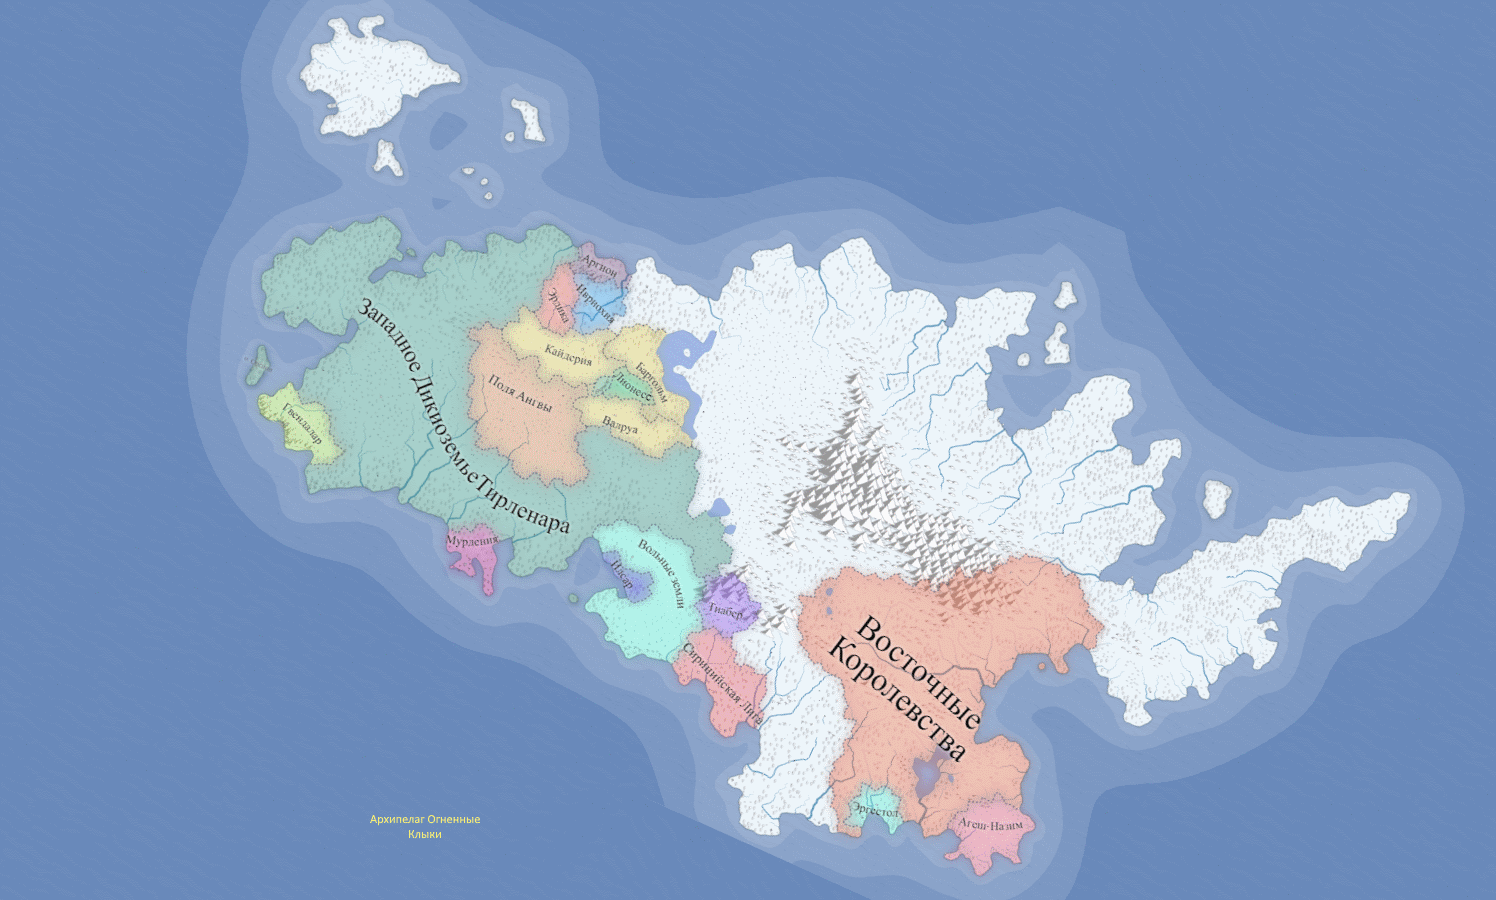
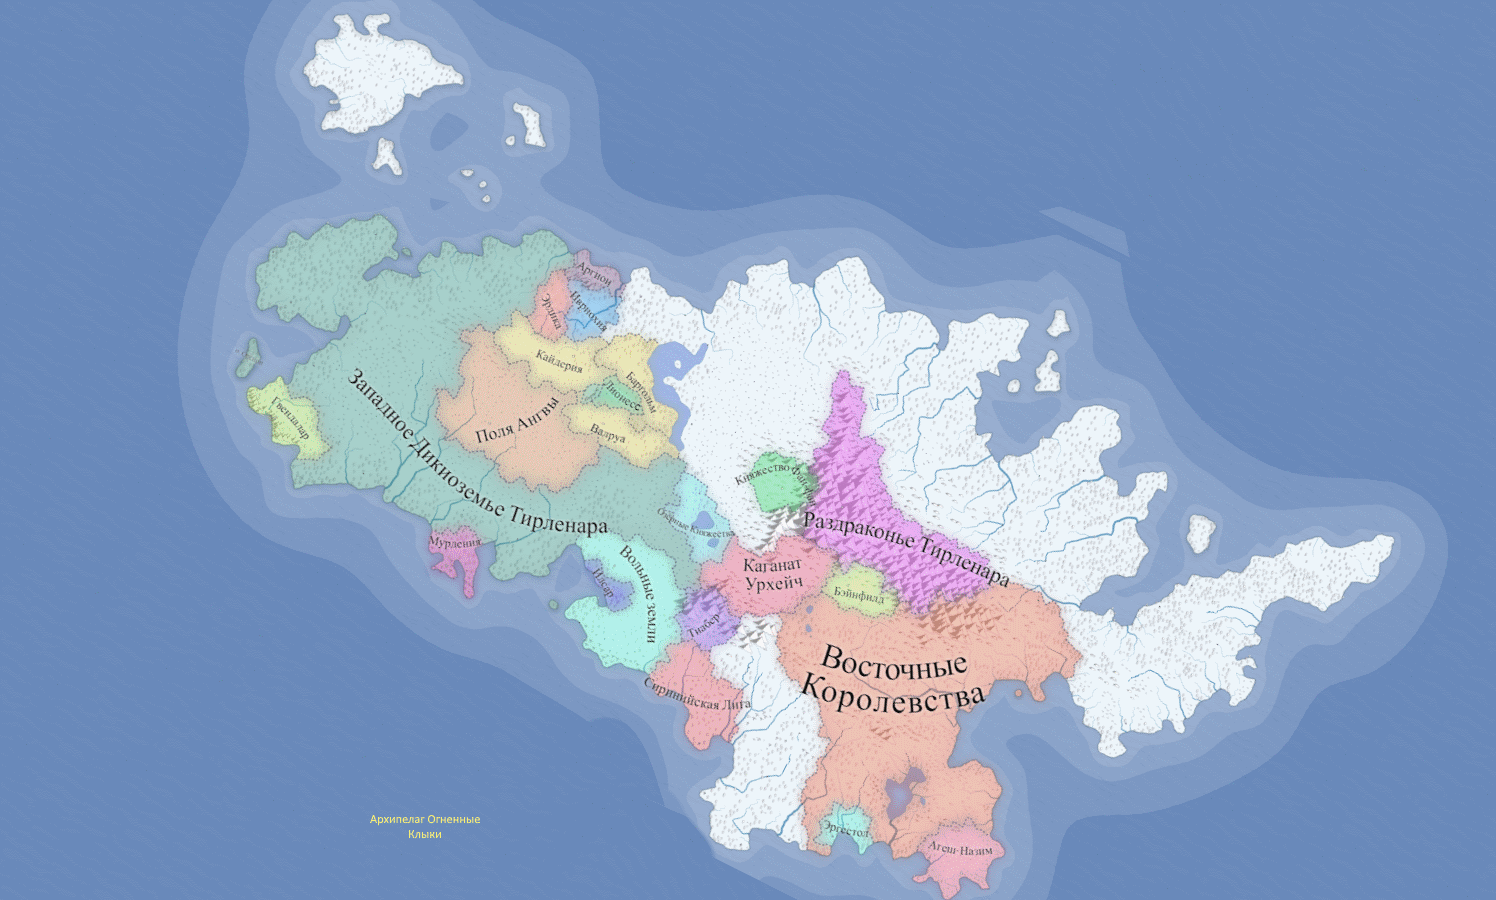
World map to 0.1.1

diff --git a/docs/lore/world-geography.md b/docs/lore/world-geography.md
@@ -1,5 +1,5 @@
 ## Карта мира
-> Версия карты: 0.1.0
+> Версия карты: 0.1.1
   Примечание ДМ: белые пятна на карте - это не баг, а фича. Текущие проблемы карты: надо выровнять названия стран, а также нарисовать острова (пока что это проблема в такой наклонённой версии).
 
 <p style="text-align: center">
